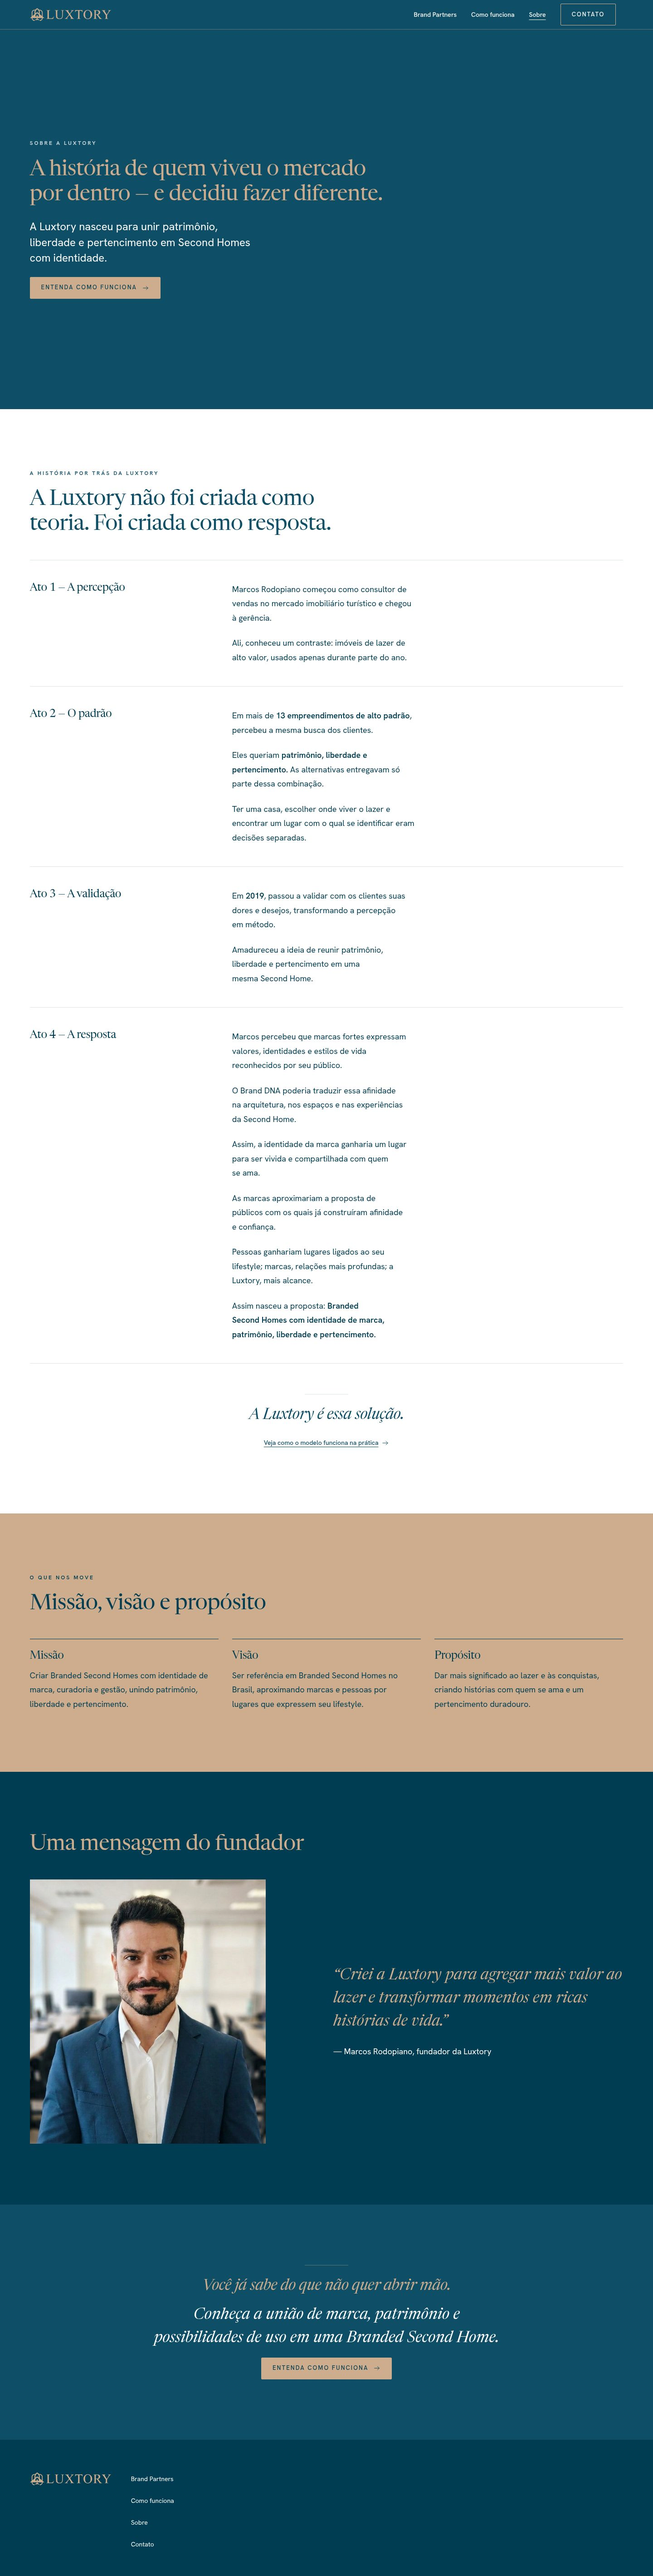
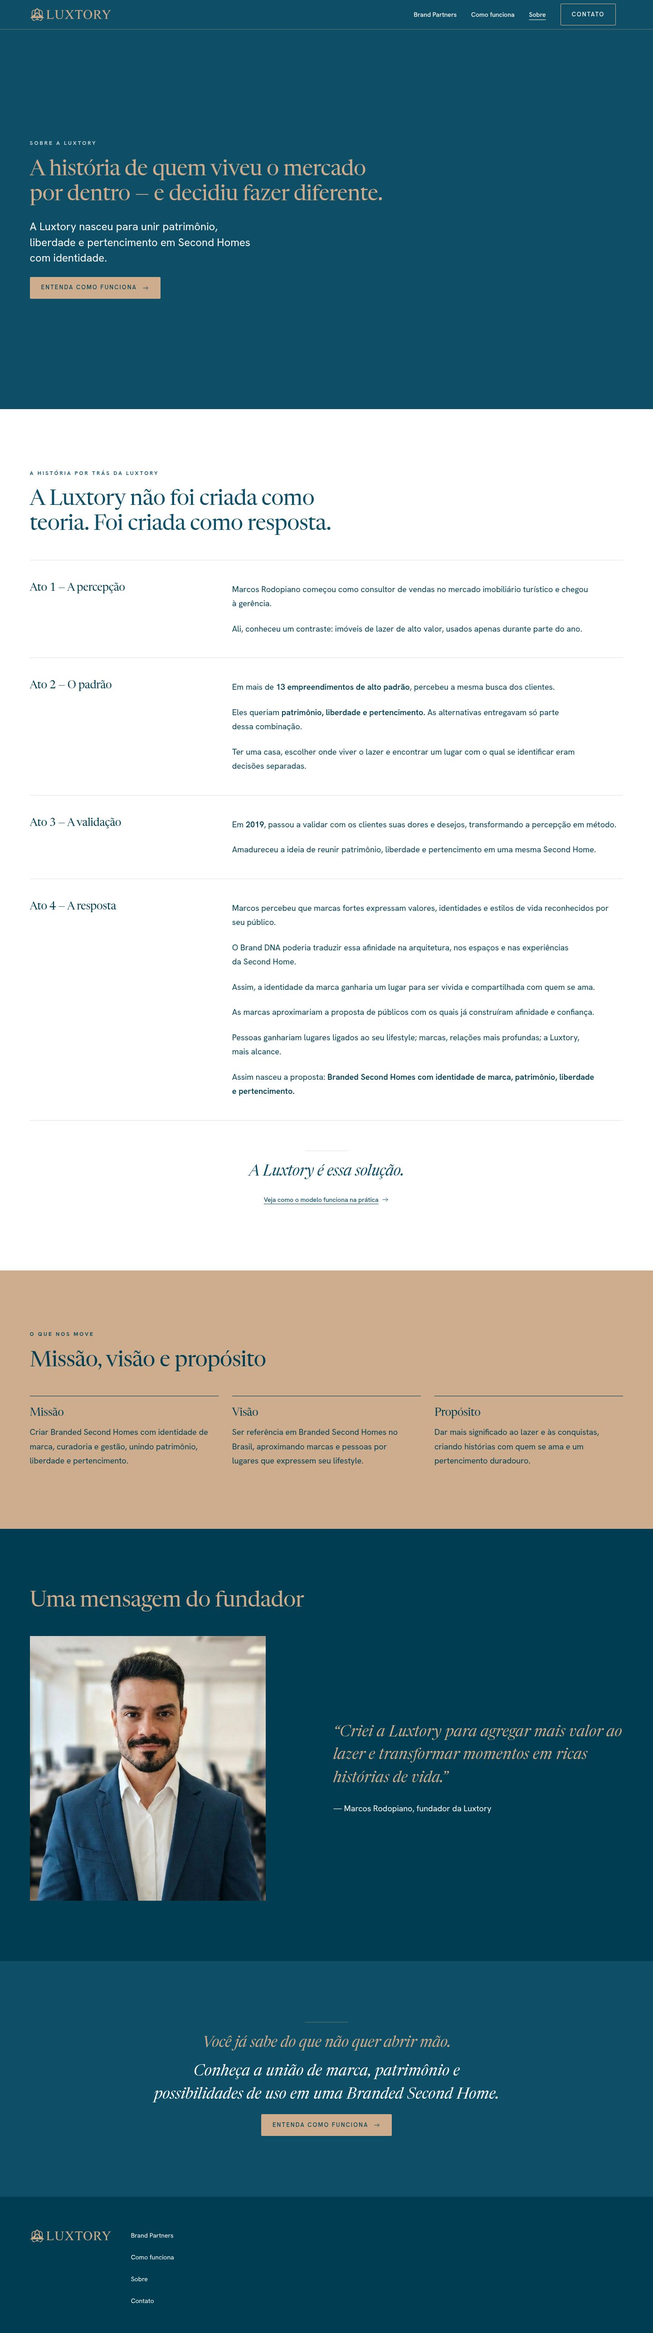
fix(catalog): amplia a coluna de leitura da história da Luxtory
Atende catalog §15.6: parágrafos usam a largura da coluna em ambas as jornadas, mantendo reflow mobile e até quatro linhas. Preserva destinos [REQ-028] e isolamento dos portões [TECH-100]. Publicação em produção autorizada após CI.

diff --git a/src/design-system/styles/core/about.css b/src/design-system/styles/core/about.css
@@ -16,6 +16,9 @@
   [data-lx="core"] .lx-about :is(.lx-body, .lx-pause--opening .lx-subheadline) {
     max-width: 40ch;
   }
+  [data-lx="core"] .lx-about .lx-answers__content .lx-body {
+    max-width: none;
+  }
   [data-lx="core"] .lx-about .lx-about__founder {
     margin: 0;
     align-items: center;

diff --git a/docs/specs/catalog.md b/docs/specs/catalog.md
@@ -1315,3 +1315,15 @@ renderizadas após carregar fontes (até quatro para títulos, parágrafos e ass
 1440 px; Hero completo nas viewports 320×640, 390×844, 768×1024, 1024×768, 1266×546 e 1440×900. Gate de UI, foto,
 links, metadados, portões e regressão das páginas existentes continuam obrigatórios. Não usar limites de caracteres
 como substituto de medir a composição real no navegador.
+
+### 15.6 Revisão final — largura da história e publicação
+
+O fundador aprovou o resultado e solicitou que os parágrafos de “A história por trás da Luxtory” preencham a
+coluna disponível, aproveitando o espaço à direita. Somente os parágrafos dos quatro atos deixam de usar o teto
+de 40ch: acompanham a largura da coluna de oito colunas no desktop e o empilhamento natural no mobile. Copy,
+escala e estrutura seguem as aprovadas em §15.5, com máximo de quatro linhas nas larguras verificadas e o mesmo
+corpo nas duas jornadas. Verificar preenchimento da coluna e ausência de overflow de 320 a 1920 px.
+
+A publicação em **produção após os testes** foi explicitamente confirmada pelo fundador nesta rodada. Esta
+autorização sucede a entrega inicial limitada a Preview: commit/push e PR #51 atualizado, CI aprovada, integração
+em `main` e execução do pipeline oficial de migrations/deploy. Não executar deploy local de produção.

diff --git a/docs/plan/sobre-luxtory.md b/docs/plan/sobre-luxtory.md
@@ -44,4 +44,11 @@ Evidências visuais do build: [390 e 1440 px por jornada](../reviews/sobre/READM
 - [x] Reproduzir diferenças de escala e blocos longos com testes de navegador (RED).
 - [x] Unificar composição, encurtar textos preservando fatos e remover abertura duplicada.
 - [x] Medir paridade e máximo de quatro linhas em seis larguras, incluindo o print 1266 × 546 (GREEN).
-- [ ] Atualizar capturas, executar gates/regressões e publicar no mesmo PR/Preview, sem merge.
+- [x] Atualizar capturas, executar gates/regressões e publicar no mesmo PR/Preview, sem merge.
+
+## Ajuste final e publicação autorizada (catalog §15.6)
+
+A revisão anterior foi aprovada pelo fundador. Ajuste localizado: liberar a largura dos parágrafos dos atos para
+preencher a coluna existente; validar paridade, até quatro linhas e reflow mobile. Atualizar capturas e gates antes
+do commit/push. Produção explicitamente autorizada: concluir a CI do PR #51, integrar em `main` e acompanhar
+migrations/deploy pelo pipeline oficial. O resultado final de CI e deploy fica registrado no PR e no NOTES local.

diff --git a/docs/reference/design-system.md b/docs/reference/design-system.md
@@ -689,3 +689,8 @@ supersedido para Sobre, sem alterar a regra das outras páginas B2B. `lx-about__
 após o header, `space-8` e fluxo natural, zerando o padding adicional do `lx-pause--opening`; a leitura de corpo e apoio
 é limitada a 40ch. Nenhum corte, clamp ou redução de fonte para acomodar texto. Copy concisa e paridade de geometria
 verificadas por linhas reais em navegador; capturas substituídas como material da revisão atual.
+
+**Largura da história (`catalog` §15.6).** Os parágrafos de `.lx-about .lx-answers__content` usam toda a coluna
+disponível, sem o teto local de 40ch. A grade Core continua com rótulo 4/12 e conteúdo 8/12 no desktop, empilhada
+abaixo de `lg`; o fluxo acompanha a viewport sem largura fixa. A medida das outras seções de Sobre permanece
+definida pelo contrato de §15.5.

diff --git a/docs/reviews/sobre/README.md b/docs/reviews/sobre/README.md
@@ -16,3 +16,7 @@ com até quatro linhas e enquadramento de todas as seções são medidos em 320/
 incluindo o Hero completo na primeira tela de 1266 × 546 px, como no print recebido. Os parágrafos usam
 preferencialmente três linhas; a citação e os fatos do fundador foram preservados na edição autorizada.
 O Preview do PR é a superfície para aprovação visual; nenhuma autorização de merge é inferida dos testes.
+
+Revisão final (`catalog` §15.6): as capturas completas foram atualizadas com os parágrafos da história ocupando
+toda a coluna disponível. Preenchimento e reflow também medidos até 1920 px, sem overflow; no mobile os blocos
+seguem com até quatro linhas. Publicação em produção explicitamente autorizada pelo fundador após os testes.

diff --git a/CHANGELOG.md b/CHANGELOG.md
@@ -14,6 +14,7 @@ and this project adheres to [Semantic Versioning](https://semver.org/spec/v2.0.0
 
 ### Changed
 
+- Sobre: parágrafos da história ocupam toda a coluna disponível, com reflow natural no mobile.
 - Sobre: apresentação idêntica no B2C e B2B, edição concisa autorizada para até quatro linhas por bloco e Hero
   enquadrado na primeira tela, com remoção do espaçamento duplicado e medidas de leitura confortáveis.
 - B2C (`D-B2C-24`): linha fina centralizada antes de cada bloco de fechamento editorial, com separação discreta.
